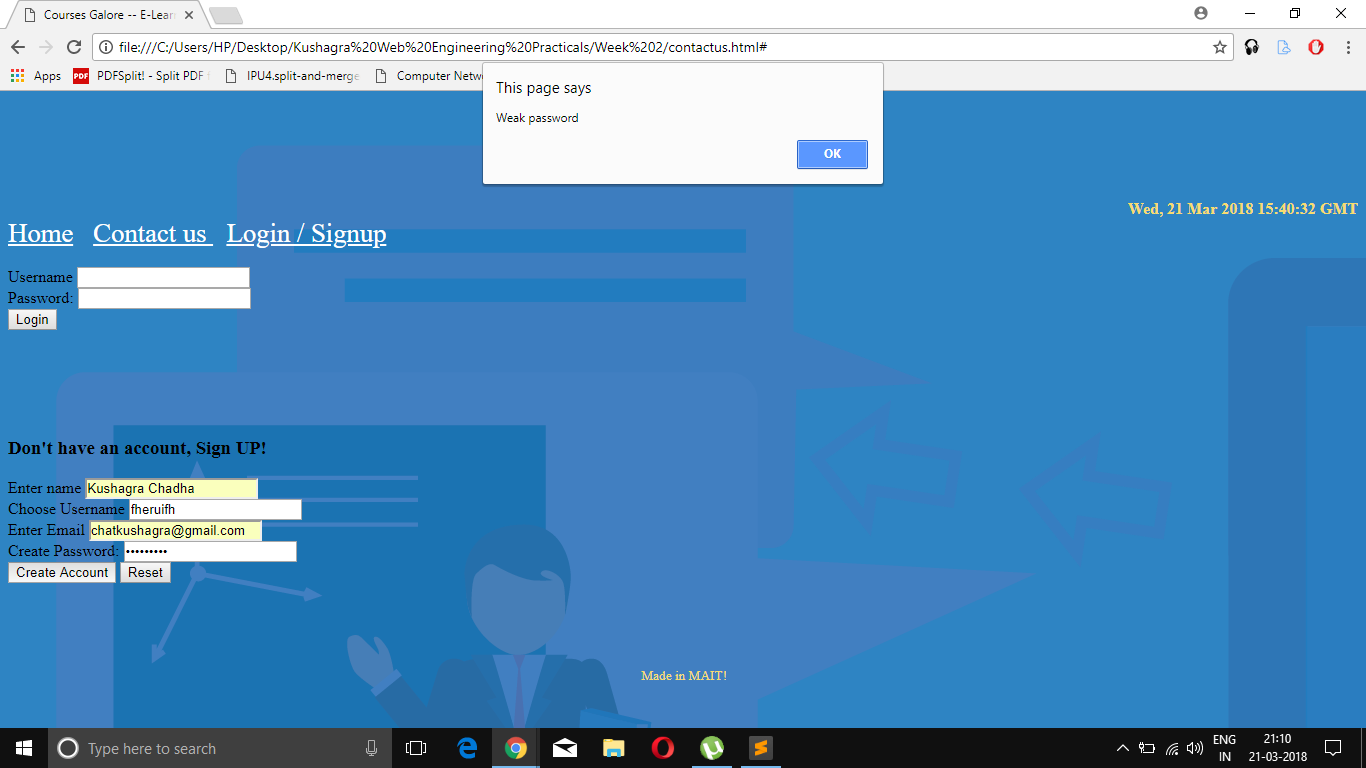
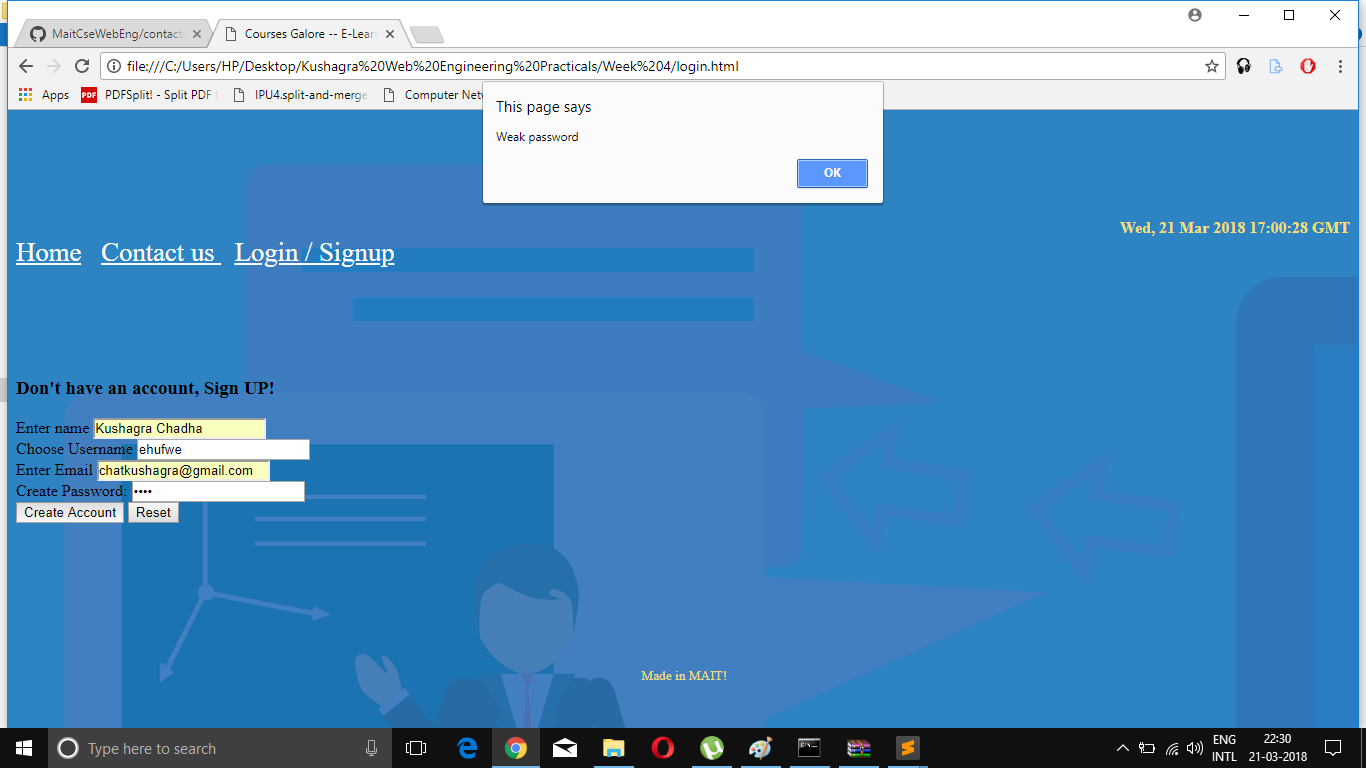
week 4 update

diff --git a/Week 4/contactus.html b/Week 4/contactus.html
@@ -3,49 +3,39 @@
 	<title>
 		Courses Galore -- E-Learning Portal
 	</title>
-	<script type="text/javascript" src="validation.js"></script>
-	<script type="text/javascript" src="date.js"></script>
 	<link rel="stylesheet" type="text/css" href="page.css">
 </head>
-<body background="https://www.secureaplus.com/wp-content/uploads/2016/04/SecureAPlus-For-Education-Call-To-Action-Background.png" onLoad="getDate()">
+<body background="https://www.secureaplus.com/wp-content/uploads/2016/04/SecureAPlus-For-Education-Call-To-Action-Background.png">
 	<header>
 		<h1  id="top-head">Courses Galore</h1>
 		<h3 id="head-descript">Knowledge at a click.</h3>	
 	</header>
-	<div align="right" id="date"></div>
 	<nav>
 		<font style="color: white; font-size: 20pt">
 			<a href="page with css and form.html" class="nav">Home</a>
 			<span>&nbsp</span>
 			<a href="#" class="nav">Contact us </a>
 			<span>&nbsp</span>
-			<a href="#" class="nav">Login / Signup</a>
+			<a href="login.html" class="nav">Login / Signup</a>
 		</font>
 	</nav>
 	<br>
 	<div id="contact-area">
-    <form method="POST" name="login">
-            <label>Username</label>
-            <input type="text" name="username"/><br>
-            <label>Password:</label>
-            <input type="password" name="password"/><br>
-            <input type="submit"/ value="Login"><br>
-    </form>
-    <br><br><br><br>
-        <h3>Don't have an account, Sign UP!</h3>
-        <form method="POST" name="signup">
-            <label>Enter name</label>
-            <input type="text" name="name" value=""/><br>
-            <label>Choose Username</label>
-            <input type="text" name="username" value=""/><br>
-            <label>Enter Email</label>
-            <input type="text" name="email" value=""/><br>
-            <label>Create Password:</label>
-            <input type="password" name="password" value=""/><br>
-            <input type="button" value="Create Account" onclick="validate(this.form)"/>
-            <input type="reset"/>
-        </form>
-    </center>
+		<form method="post" action="#">
+				<label for="Name">Name:</label>
+				<input type="text" name="Name" id="Name" />
+				<br>
+				<label for="City">City:</label>
+				<input type="text" name="City" id="City" />
+				<br>
+				<label for="Email">Email:</label>
+				<input type="text" name="Email" id="Email" />
+				<br>
+				<label for="Message">Message:</label><br />
+				<textarea name="Message" rows="20" cols="20" id="Message"></textarea>
+				<br>
+				<input type="submit" name="submit" value="Submit" class="submit-button" />
+			</form>
 	</div>	
 	<footer id="foot">
 		Made in MAIT!

diff --git a/Week 4/login.html b/Week 4/login.html
@@ -1,0 +1,47 @@
+<html>
+<head>
+	<title>
+		Courses Galore -- E-Learning Portal
+	</title>
+	<script type="text/javascript" src="validation.js"></script>
+	<script type="text/javascript" src="date.js"></script>
+	<link rel="stylesheet" type="text/css" href="page.css">
+</head>
+<body background="https://www.secureaplus.com/wp-content/uploads/2016/04/SecureAPlus-For-Education-Call-To-Action-Background.png" onLoad="getDate()">
+	<header>
+		<h1  id="top-head">Courses Galore</h1>
+		<h3 id="head-descript">Knowledge at a click.</h3>	
+	</header>
+	<div align="right" id="date"></div>
+	<nav>
+		<font style="color: white; font-size: 20pt">
+			<a href="page with css and form.html" class="nav">Home</a>
+			<span>&nbsp</span>
+			<a href="contactus.html" class="nav">Contact us </a>
+			<span>&nbsp</span>
+			<a href="#" class="nav">Login / Signup</a>
+		</font>
+	</nav>
+	<br>
+	<div id="contact-area">
+    <br><br><br><br>
+        <h3>Don't have an account, Sign UP!</h3>
+        <form method="POST" name="signup">
+            <label>Enter name</label>
+            <input type="text" name="name" value=""/><br>
+            <label>Choose Username</label>
+            <input type="text" name="username" value=""/><br>
+            <label>Enter Email</label>
+            <input type="text" name="email" value=""/><br>
+            <label>Create Password:</label>
+            <input type="password" name="password" value=""/><br>
+            <input type="button" value="Create Account" onclick="validate(this.form)"/>
+            <input type="reset"/>
+        </form>
+    </center>
+	</div>	
+	<footer id="foot">
+		Made in MAIT!
+	</footer>
+</body>
+</html>

diff --git a/Week 2/contactus.html b/Week 2/contactus.html
@@ -14,9 +14,9 @@
 		<font style="color: white; font-size: 20pt">
 			<a href="page with css and form.html" class="nav">Home</a>
 			<span>&nbsp</span>
-			<a href="#" class="nav">Contact us </a>
+			<a href="contactus.html" class="nav">Contact us </a>
 			<span>&nbsp</span>
-			<a href="#" class="nav">Login / Signup</a>
+			<a href="login.html" class="nav">Login / Signup</a>
 		</font>
 	</nav>
 	<br>

diff --git a/Week 4/page with css and form.html b/Week 4/page with css and form.html
@@ -16,7 +16,7 @@
 			<span>&nbsp</span>
 			<a href="contactus.html" class="nav">Contact us </a>
 			<span>&nbsp</span>
-			<a href="#" class="nav">Login / Signup</a>
+			<a href="login.js" class="nav">Login / Signup</a>
 		</font>
 	</nav>
 	<br>
